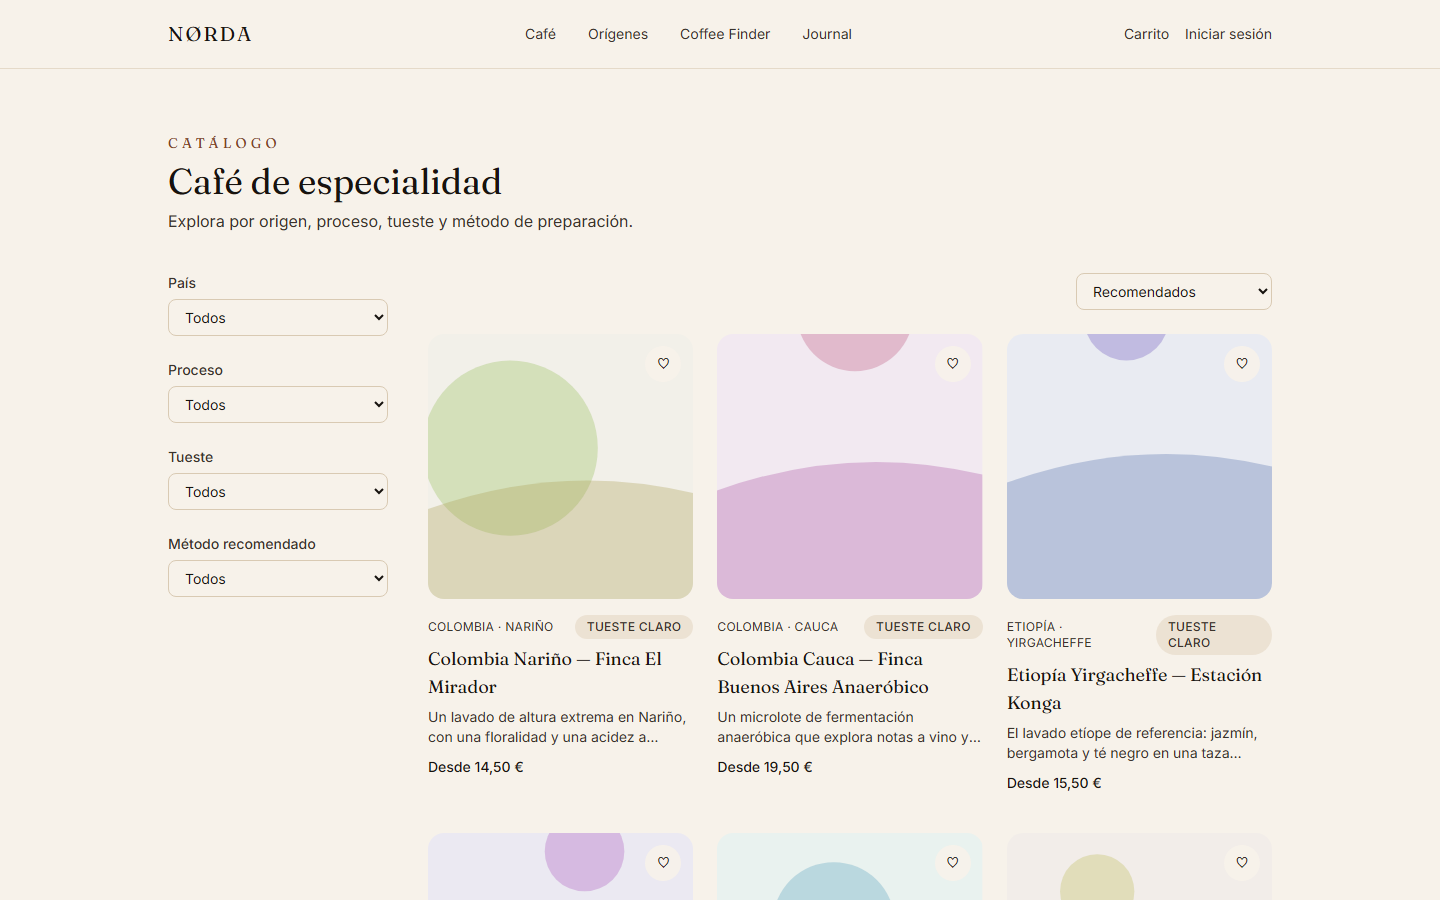
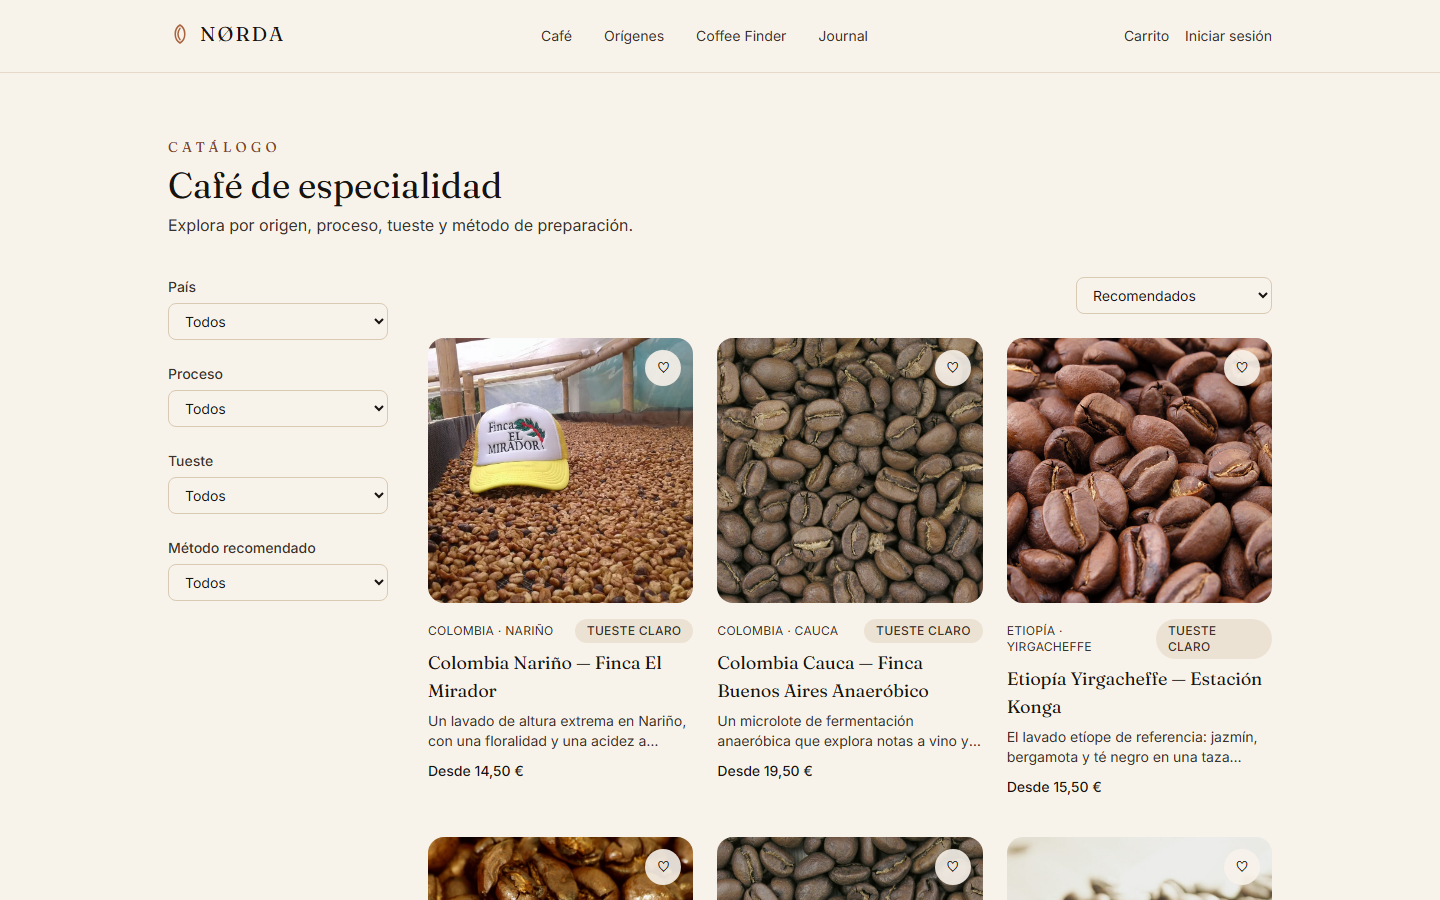
Mejora de la guia de readme y nuevas imagenes cafes

diff --git a/frontend/src/components/ui/CoffeePhoto.tsx b/frontend/src/components/ui/CoffeePhoto.tsx
@@ -1,0 +1,106 @@
+import { PhotoOrArt } from './PhotoOrArt'
+import type { RoastLevel } from '@/types/catalog'
+
+// Varias fotos por nivel de tueste: con un unico archivo por nivel, un catalogo con muchos
+// productos del mismo tueste (la mayoria son LIGHT) repite la misma imagen una y otra vez y
+// se nota como falso. Repartir entre varias reduce esa repeticion.
+const ROAST_IMAGES: Record<RoastLevel, string[]> = {
+  LIGHT: [
+    '/images/coffees/roast-light.jpg',
+    '/images/coffees/roast-light-2.jpg',
+    '/images/coffees/roast-light-3.jpg',
+    '/images/coffees/roast-light-4.jpg',
+    '/images/coffees/roast-light-5.jpg',
+    '/images/coffees/roast-light-6.jpg',
+  ],
+  MEDIUM: [
+    '/images/coffees/roast-medium.jpg',
+    '/images/coffees/roast-medium-2.jpg',
+    '/images/coffees/roast-medium-3.jpg',
+    '/images/coffees/roast-medium-4.jpg',
+    '/images/coffees/roast-medium-5.jpg',
+  ],
+  MEDIUM_DARK: [
+    '/images/coffees/roast-medium-dark.jpg',
+    '/images/coffees/roast-medium-dark-2.jpg',
+    '/images/coffees/roast-medium-dark-3.jpg',
+    '/images/coffees/roast-medium-dark-4.jpg',
+  ],
+  DARK: ['/images/coffees/roast-dark.jpg'],
+}
+
+// Fotos reales de un producto concreto (no de banco de imagenes) subidas para ese cafe
+// especifico. Tienen prioridad absoluta sobre el pool generico por nivel de tueste.
+const PRODUCT_PHOTOS: Record<string, string> = {
+  'colombia-narino-finca-el-mirador': '/images/coffees/products/colombia-narino-finca-el-mirador.webp',
+}
+
+// Indice explicito por producto (slug -> posicion en ROAST_IMAGES[roastLevel]), calculado a
+// partir de los 28 productos de backend/.../V4__seed_data.sql. Dentro de cada pais el indice
+// es siempre correlativo (offset del pais + posicion del cafe dentro de ese pais, modulo el
+// tamano del pool), asi que dos cafes del mismo pais o region NUNCA comparten foto, sea cual
+// sea el tamano del pool. Un indice global por orden alfabetico de slug (sin agrupar por pais)
+// no garantiza esto: dos productos separados exactamente por el tamano del pool caen en el
+// mismo indice aunque sean del mismo pais (le paso a Etiopia Guji / Kenia Nyeri Gikanda con un
+// pool de 6). Un slug ausente de este mapa (dato de semilla nuevo) cae al hash determinista de
+// respaldo, que sigue siendo estable pero ya no garantiza ausencia de repeticion.
+const PRODUCT_IMAGE_INDEX: Record<string, number> = {
+  // LIGHT (pool de 6)
+  'colombia-cauca-finca-buenos-aires': 0,
+  'colombia-huila-finca-la-esperanza': 1,
+  // colombia-narino-finca-el-mirador tiene foto real propia, ver PRODUCT_PHOTOS
+  'costa-rica-tarrazu-finca-la-candelilla': 1,
+  'costa-rica-tarrazu-microbeneficio-don-mayo': 2,
+  'etiopia-guji-finca-uraga': 2,
+  'etiopia-sidama-cooperativa-bensa': 3,
+  'etiopia-yirgacheffe-estacion-konga': 4,
+  'guatemala-huehuetenango-finca-la-soledad': 3,
+  'kenia-kirinyaga-cooperativa-kiangoi': 4,
+  'kenia-nyeri-cooperativa-tekangu': 5,
+  'kenia-nyeri-estacion-gikanda': 0,
+  'panama-boquete-finca-alto-boquete': 5,
+  'panama-boquete-finca-el-roble': 0,
+  'peru-cajamarca-cooperativa-sol-naciente': 0,
+  'ruanda-huye-cooperativa-maraba': 1,
+  'ruanda-nyamasheke-estacion-kagano': 2,
+  // MEDIUM (pool de 5)
+  'brasil-sul-de-minas-fazenda-boa-vista': 0,
+  'brasil-sul-de-minas-fazenda-santa-ines': 1,
+  'costa-rica-tres-rios-finca-las-lajas': 1,
+  'guatemala-antigua-finca-los-volcanes': 2,
+  'guatemala-antigua-finca-san-jose': 3,
+  'indonesia-gayo-estacion-takengon': 3,
+  'panama-volcan-finca-santa-teresa': 4,
+  'peru-cusco-cooperativa-valle-de-quillabamba': 0,
+  // MEDIUM_DARK (pool de 4)
+  'brasil-cerrado-mineiro-fazenda-cachoeira': 0,
+  'indonesia-gayo-koperasi-gayo-mandiri': 1,
+  'indonesia-toraja-koperasi-toraja-melo': 2,
+}
+
+function hashSeed(seed: string): number {
+  let hash = 0
+  for (let i = 0; i < seed.length; i++) {
+    hash = (hash * 31 + seed.charCodeAt(i)) >>> 0
+  }
+  return hash
+}
+
+interface CoffeePhotoProps {
+  roastLevel: RoastLevel
+  seed: string
+  alt: string
+  className?: string
+}
+
+/**
+ * Foto real del producto si existe (PRODUCT_PHOTOS); si no, una fotografia generica de
+ * grano tostado (ver public/images/CREDITS.md) elegida segun el nivel de tueste, con
+ * fallback a OriginArt via PhotoOrArt.
+ */
+export function CoffeePhoto({ roastLevel, seed, alt, className = '' }: CoffeePhotoProps) {
+  const images = ROAST_IMAGES[roastLevel]
+  const index = PRODUCT_IMAGE_INDEX[seed] ?? hashSeed(seed) % images.length
+  const src = PRODUCT_PHOTOS[seed] ?? images[index % images.length]
+  return <PhotoOrArt src={src} seed={seed} alt={alt} className={className} />
+}

diff --git a/frontend/src/features/finder/FinderResults.tsx b/frontend/src/features/finder/FinderResults.tsx
@@ -1,7 +1,7 @@
 import { Link } from 'react-router-dom'
 import { Button } from '@/components/ui/Button'
 import { Card } from '@/components/ui/Card'
-import { OriginArt } from '@/components/ui/OriginArt'
+import { CoffeePhoto } from '@/components/ui/CoffeePhoto'
 import { formatPrice } from '@/utils/coffeeLabels'
 import type { FinderResultItem } from '@/types/finder'
 
@@ -27,7 +27,7 @@ export function FinderResults({ results, onRestart }: FinderResultsProps) {
       <div>
         <p className="font-display text-sm uppercase tracking-[0.3em] text-clay-dark">Tu café ideal</p>
         <div className="mt-6 grid grid-cols-1 gap-8 md:grid-cols-2">
-          <OriginArt seed={best.product.slug} alt={best.product.name} className="aspect-square w-full rounded-card" />
+          <CoffeePhoto roastLevel={best.product.roastLevel} seed={best.product.slug} alt={best.product.name} className="aspect-square w-full rounded-card" />
           <div className="flex flex-col justify-center gap-4">
             <p className="font-display text-3xl text-ink">{best.matchPercent}% MATCH</p>
             <h2 className="font-display text-2xl text-ink">{best.product.name}</h2>

diff --git a/frontend/src/pages/Origins.tsx b/frontend/src/pages/Origins.tsx
@@ -1,6 +1,6 @@
 import { Suspense, lazy } from 'react'
 import { Link } from 'react-router-dom'
-import { PhotoOrArt } from '@/components/ui/PhotoOrArt'
+import { FlagImage } from '@/components/ui/FlagImage'
 import { Seo } from '@/components/seo/Seo'
 import { Skeleton } from '@/components/ui/Skeleton'
 import { useOriginTree } from '@/features/origins/hooks'
@@ -58,10 +58,9 @@ export function Origins() {
             {group.countries.map((country) => (
               <Link key={country.slug} to={`/origins/${country.slug}`} className="group flex flex-col gap-3">
                 <div className="overflow-hidden rounded-card">
-                  <PhotoOrArt
-                    src={`/images/origins/${country.slug}.jpg`}
-                    seed={country.slug}
-                    alt={`Origen: ${country.name}`}
+                  <FlagImage
+                    slug={country.slug}
+                    alt={`Bandera de ${country.name}`}
                     className="aspect-square w-full transition-transform duration-300 group-hover:scale-105"
                   />
                 </div>

diff --git a/frontend/src/pages/RegionPage.tsx b/frontend/src/pages/RegionPage.tsx
@@ -1,6 +1,6 @@
 import { Link, useParams } from 'react-router-dom'
 import { Card } from '@/components/ui/Card'
-import { OriginArt } from '@/components/ui/OriginArt'
+import { PhotoOrArt } from '@/components/ui/PhotoOrArt'
 import { Seo } from '@/components/seo/Seo'
 import { Skeleton } from '@/components/ui/Skeleton'
 import { ProductCard } from '@/features/catalog/ProductCard'
@@ -56,7 +56,12 @@ export function RegionPage() {
           <h1 className="mt-2 font-display text-4xl text-ink">{data.name}</h1>
           <p className="mt-4 leading-relaxed text-ink-soft">{data.description}</p>
         </div>
-        <OriginArt seed={data.slug} alt={`Región: ${data.name}`} className="aspect-square w-full rounded-card" />
+        <PhotoOrArt
+          src={`/images/origins/${data.country.slug}.jpg`}
+          seed={data.slug}
+          alt={`Región: ${data.name}, ${data.country.name}`}
+          className="aspect-square w-full rounded-card"
+        />
       </div>
 
       <h2 className="mb-6 mt-14 font-display text-2xl text-ink">Productores</h2>

diff --git a/frontend/src/pages/CoffeeDetail.tsx b/frontend/src/pages/CoffeeDetail.tsx
@@ -2,7 +2,7 @@ import { useEffect, useState } from 'react'
 import { Link, useNavigate, useParams } from 'react-router-dom'
 import { Badge } from '@/components/ui/Badge'
 import { Button } from '@/components/ui/Button'
-import { OriginArt } from '@/components/ui/OriginArt'
+import { CoffeePhoto } from '@/components/ui/CoffeePhoto'
 import { QuantityStepper } from '@/components/ui/QuantityStepper'
 import { Seo } from '@/components/seo/Seo'
 import { Skeleton } from '@/components/ui/Skeleton'
@@ -98,7 +98,7 @@ export function CoffeeDetail() {
 
       <div className="grid grid-cols-1 gap-12 md:grid-cols-2">
         <div className="relative">
-          <OriginArt seed={product.slug} alt={product.name} className="aspect-square w-full rounded-card" />
+          <CoffeePhoto roastLevel={product.roastLevel} seed={product.slug} alt={product.name} className="aspect-square w-full rounded-card" />
           <FavoriteButton productId={product.id} className="absolute right-4 top-4" />
         </div>
 

diff --git a/frontend/src/features/catalog/ProductCard.tsx b/frontend/src/features/catalog/ProductCard.tsx
@@ -1,6 +1,6 @@
 import { Link } from 'react-router-dom'
 import { Badge } from '@/components/ui/Badge'
-import { OriginArt } from '@/components/ui/OriginArt'
+import { CoffeePhoto } from '@/components/ui/CoffeePhoto'
 import { FavoriteButton } from '@/features/favorites/FavoriteButton'
 import { formatPrice, ROAST_LABELS } from '@/utils/coffeeLabels'
 import type { ProductSummary } from '@/types/catalog'
@@ -9,7 +9,8 @@ export function ProductCard({ product }: { product: ProductSummary }) {
   return (
     <Link to={`/coffee/${product.slug}`} className="group flex flex-col gap-4">
       <div className="relative overflow-hidden rounded-card">
-        <OriginArt
+        <CoffeePhoto
+          roastLevel={product.roastLevel}
           seed={product.slug}
           alt={`${product.name}, café de ${product.countryName}`}
           className="aspect-square w-full transition-transform duration-300 group-hover:scale-105"

diff --git a/frontend/src/pages/CountryPage.tsx b/frontend/src/pages/CountryPage.tsx
@@ -1,7 +1,7 @@
 import { Suspense, lazy } from 'react'
 import { Link, useParams } from 'react-router-dom'
 import { Card } from '@/components/ui/Card'
-import { PhotoOrArt } from '@/components/ui/PhotoOrArt'
+import { FlagImage } from '@/components/ui/FlagImage'
 import { Seo } from '@/components/seo/Seo'
 import { Skeleton } from '@/components/ui/Skeleton'
 import { ProductCard } from '@/features/catalog/ProductCard'
@@ -53,10 +53,9 @@ export function CountryPage() {
         <Link to="/origins" className="hover:text-ink">Orígenes</Link>
       </nav>
 
-      <PhotoOrArt
-        src={`/images/origins/${data.slug}.jpg`}
-        seed={data.slug}
-        alt={`Paisaje cafetero de ${data.name}`}
+      <FlagImage
+        slug={data.slug}
+        alt={`Bandera de ${data.name}`}
         className="mb-10 h-64 w-full rounded-card sm:h-80"
       />
 

diff --git a/frontend/src/components/ui/FlagImage.tsx b/frontend/src/components/ui/FlagImage.tsx
@@ -1,0 +1,22 @@
+interface FlagImageProps {
+  slug: string
+  alt: string
+  className?: string
+}
+
+/**
+ * Bandera vectorial del pais (flagcdn.com) mostrada completa sobre un fondo
+ * neutro (object-contain) para no recortar ni deformar el diseno oficial.
+ */
+export function FlagImage({ slug, alt, className = '' }: FlagImageProps) {
+  return (
+    <div className={`flex items-center justify-center overflow-hidden bg-sand ${className}`}>
+      <img
+        src={`/images/flags/${slug}.svg`}
+        alt={alt}
+        loading="lazy"
+        className="h-full w-full object-contain p-8"
+      />
+    </div>
+  )
+}

diff --git a/frontend/src/components/ui/OriginArt.tsx b/frontend/src/components/ui/OriginArt.tsx
@@ -1,7 +1,7 @@
 /**
  * Composicion abstracta determinista a partir de un seed (slug de producto/origen).
- * Sustituye a fotografia de producto real (de la que no disponemos con licencia
- * verificada) sin recurrir a imagenes rotas ni a placeholders genericos grises.
+ * Fallback de PhotoOrArt cuando la fotografia real falta o falla al cargar, para no
+ * recurrir a imagenes rotas ni a placeholders genericos grises.
  */
 function hashSeed(seed: string): number {
   let hash = 0

diff --git a/frontend/public/images/CREDITS.md b/frontend/public/images/CREDITS.md
@@ -1,9 +1,57 @@
 # Créditos de imágenes
 
-Todas las fotografías de este directorio proceden de Wikimedia Commons y están bajo una licencia
-que permite uso comercial libre (dominio público, CC0, CC BY o CC BY-SA). Se listan aquí para
-trazabilidad y para cumplir la atribución requerida por las licencias CC BY/CC BY-SA. 18/18
-imágenes completas.
+Salvo lo indicado en "Fotos propias de producto", todas las fotografías de este directorio
+proceden de Wikimedia Commons y están bajo una licencia que permite uso comercial libre (dominio
+público, CC0, CC BY o CC BY-SA). Se listan aquí para trazabilidad y para cumplir la atribución
+requerida por las licencias CC BY/CC BY-SA.
+
+## Fotos propias de producto (`coffees/products/`)
+
+Fotografías reales del propio café/finca (no de banco de imágenes), aportadas por NØRDA.
+`CoffeePhoto` las usa con prioridad absoluta sobre el pool genérico por nivel de tueste
+(`PRODUCT_PHOTOS` en `CoffeePhoto.tsx`).
+
+- `colombia-narino-finca-el-mirador.webp` — Café en secado (parchamino) en Finca El Mirador, Nariño.
+
+## Banderas (`flags/`)
+
+Banderas vectoriales oficiales servidas por [flagcdn.com](https://flagcdn.com) (basadas en los
+diseños de dominio público de [github.com/lipis/flag-icons](https://github.com/lipis/flag-icons)),
+sin restricciones de copyright al ser representaciones geométricas de símbolos nacionales oficiales.
+
+- `colombia.svg`, `brasil.svg`, `costa-rica.svg`, `etiopia.svg`, `guatemala.svg`, `indonesia.svg`,
+  `kenia.svg`, `panama.svg`, `peru.svg`, `ruanda.svg`
+
+## Café por nivel de tueste (`coffees/`)
+
+Varias fotos por nivel de tueste, con un índice explícito por producto (slug → foto, ver
+`PRODUCT_IMAGE_INDEX` en `CoffeePhoto.tsx`) calculado a partir de los 28 productos de la base de
+datos semilla para que dos cafés del mismo país o región nunca compartan foto. Todas
+redimensionadas a 900×900 y recomprimidas a JPEG calidad 82 para no servir varios MB por foto (los
+originales de Wikimedia Commons llegaban a pesar hasta 12 MB).
+
+**Serie principal** — granos tostados a distinta temperatura, de la Sweet Maria's Coffee Library.
+Autor: Dan Bollinger. CC BY-SA 3.0.
+
+- `roast-light.jpg` — [400 degrees New England roast coffee](https://commons.wikimedia.org/wiki/File:400_degrees_new_england_roast_coffee.png)
+- `roast-light-2.jpg` — [385 degrees Cinnamon roast coffee](https://commons.wikimedia.org/wiki/File:385_degrees_cinnamon_roast_coffee.png)
+- `roast-light-3.jpg` — [410 degrees American roast coffee](https://commons.wikimedia.org/wiki/File:410_degrees_american_roast_coffee.png)
+- `roast-medium.jpg` — [425 degrees City roast coffee](https://commons.wikimedia.org/wiki/File:425_degrees_city_roast_coffee.png)
+- `roast-medium-dark.jpg` — [440 degrees Full City roast coffee](https://commons.wikimedia.org/wiki/File:440_degrees_full_city_roast_coffee.png)
+- `roast-medium-dark-2.jpg` — [450 degrees Vienna roast coffee](https://commons.wikimedia.org/wiki/File:450_degrees_vienna_roast_coffee.png)
+- `roast-dark.jpg` — [460 degrees French roast coffee](https://commons.wikimedia.org/wiki/File:460_degrees_french_roast_coffee.png)
+
+**Fotos adicionales** de otros autores:
+
+- `roast-light-4.jpg` — Peaberry coffee beans, close up. Autor: Ragesoss. CC BY-SA 3.0. [Fuente](https://commons.wikimedia.org/wiki/File:Peaberry_coffee_beans,_close_up.jpg)
+- `roast-light-5.jpg` — Roasted coffee beans. Autor: MarkSweep. Dominio público. [Fuente](https://commons.wikimedia.org/wiki/File:Roasted_coffee_beans.jpg)
+- `roast-light-6.jpg` — Roasted coffee beans (mesa de madera). Autor: Daniel Ruswick. CC0. [Fuente](https://commons.wikimedia.org/wiki/File:Roasted_coffee_beans_(Unsplash).jpg)
+- `roast-medium-2.jpg` — Medium roasted Arabica coffee beans. CC BY-SA 3.0. [Fuente](https://commons.wikimedia.org/wiki/File:Medium_roasted_Arabica_coffee_beans.jpg)
+- `roast-medium-3.jpg` — Macro close up look of roasted coffee beans. CC BY-SA 4.0. [Fuente](https://commons.wikimedia.org/wiki/File:Macro_close_up_look_of_roasted_coffee_beans.jpg)
+- `roast-medium-4.jpg` — Coffee beans (manos). Autor: Nathan Dumlao. CC0. [Fuente](https://commons.wikimedia.org/wiki/File:Coffee_beans_1_(Unsplash).jpg)
+- `roast-medium-5.jpg` — Coffee beans (fondo blanco). Autor: Evan-Amos. CC0. [Fuente](https://commons.wikimedia.org/wiki/File:Coffee-Beans.jpg)
+- `roast-medium-dark-3.jpg` — Coffee bean triangle. Autor: John Lodder. CC BY 2.0. [Fuente](https://commons.wikimedia.org/wiki/File:Coffee_bean_triangle_(49374601652).jpg)
+- `roast-medium-dark-4.jpg` — Coffee Beans, color. Autor: Chuck Grimmett. CC0. [Fuente](https://commons.wikimedia.org/wiki/File:Coffee_Beans,_color_(28183654506).jpg)
 
 ## Orígenes (`origins/`)
 

diff --git a/README.md b/README.md
@@ -14,12 +14,58 @@ límites conocidos.
 
 ## Capturas
 
+Un recorrido visual completo por la aplicación, de cliente a administrador.
+
+### Descubrimiento y catálogo
+
 | | |
 |---|---|
 | ![Home](docs/screenshots/home.png) | ![Catálogo](docs/screenshots/catalog.png) |
-| ![Ficha de producto](docs/screenshots/product-detail.png) | ![Mapa de orígenes](docs/screenshots/origins-map.png) |
-| ![Coffee Finder](docs/screenshots/finder.png) | ![Journal](docs/screenshots/journal.png) |
-| ![Panel de administración](docs/screenshots/admin-dashboard.png) | |
+| Home | Catálogo, con filtros por país, proceso, tueste y método |
+| ![Ficha de producto](docs/screenshots/product-detail.png) | ![Mapa mundial de orígenes](docs/screenshots/origins-map.png) |
+| Ficha de producto — foto real de finca | Mapa mundial de orígenes (Leaflet, sin claves de API) |
+| ![Países con bandera](docs/screenshots/origins-flags.png) | ![Ficha de país](docs/screenshots/country-detail.png) |
+| Listado de países por continente | Ficha de país, con mapa de sus regiones |
+| ![Ficha de región](docs/screenshots/region.png) | |
+| Ficha de región, con productores y cafés | |
+
+### Coffee Finder
+
+| | |
+|---|---|
+| ![Cuestionario del Coffee Finder](docs/screenshots/finder-quiz.png) | ![Resultado del Coffee Finder](docs/screenshots/finder-results.png) |
+| Cuestionario de 5 preguntas | Recomendación explicada, con alternativas |
+
+### Compra: carrito y checkout
+
+| | |
+|---|---|
+| ![Carrito lateral](docs/screenshots/cart.png) | ![Checkout: datos](docs/screenshots/checkout-datos.png) |
+| Carrito lateral | Checkout — paso 1: datos de contacto |
+| ![Checkout: dirección](docs/screenshots/checkout-direccion.png) | ![Checkout: envío](docs/screenshots/checkout-envio.png) |
+| Checkout — paso 2: dirección de envío | Checkout — paso 3: método de envío |
+| ![Checkout: pago](docs/screenshots/checkout-pago.png) | ![Checkout: confirmación](docs/screenshots/checkout-confirmacion.png) |
+| Checkout — paso 4: pasarela de pago (modo demo) | Checkout — paso 5: pedido confirmado |
+
+### Cuenta y contenido editorial
+
+| | |
+|---|---|
+| ![Inicio de sesión](docs/screenshots/login.png) | ![Registro](docs/screenshots/register.png) |
+| Inicio de sesión | Creación de cuenta |
+| ![Journal](docs/screenshots/journal.png) | ![Artículo del Journal](docs/screenshots/journal-post.png) |
+| Journal — listado de artículos | Artículo con SEO dinámico y JSON-LD |
+
+### Panel de administración
+
+| | |
+|---|---|
+| ![Panel: resumen](docs/screenshots/admin-dashboard.png) | ![Panel: pedidos](docs/screenshots/admin-orders.png) |
+| Resumen con métricas reales (ventas, ticket medio, clientes) | Gestión de pedidos, con máquina de estados |
+| ![Panel: productos](docs/screenshots/admin-products.png) | ![Panel: orígenes](docs/screenshots/admin-origins.png) |
+| Gestión de productos | Gestión de países, regiones y productores |
+| ![Panel: clientes](docs/screenshots/admin-customers.png) | |
+| Gestión de clientes | |
 
 ## Qué se puede hacer hoy
 
